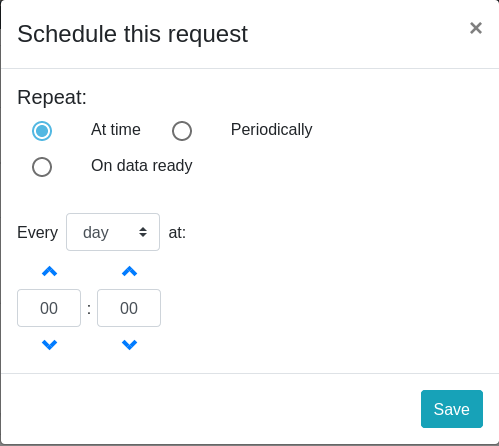
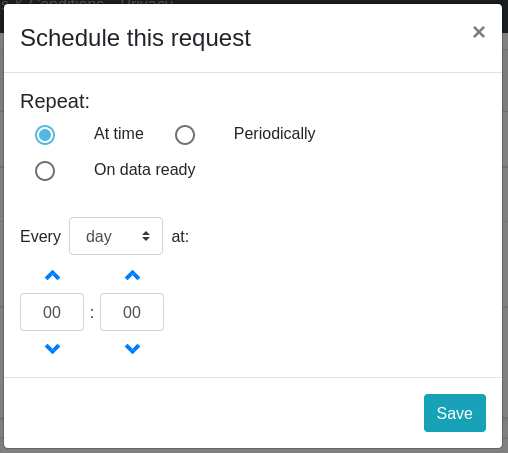
minor on schedule description on doc

diff --git a/docs/README.md b/docs/README.md
@@ -100,7 +100,7 @@ By clicking on the Schedules tab, the page will show the list of the scheduled r
 The submission of any request of data extraction can be scheduled. This functionality is not available for all users as it has to be enabled specifically for each account by an admin (see [Admin Guide](README.md#admin-guide))
 
 To choose the scheduling options the user has to click on the icon on the "Submit my request" page.
-![](scheduled.png)
+![](schedule.png)
 
 The scheduling options are:
 
